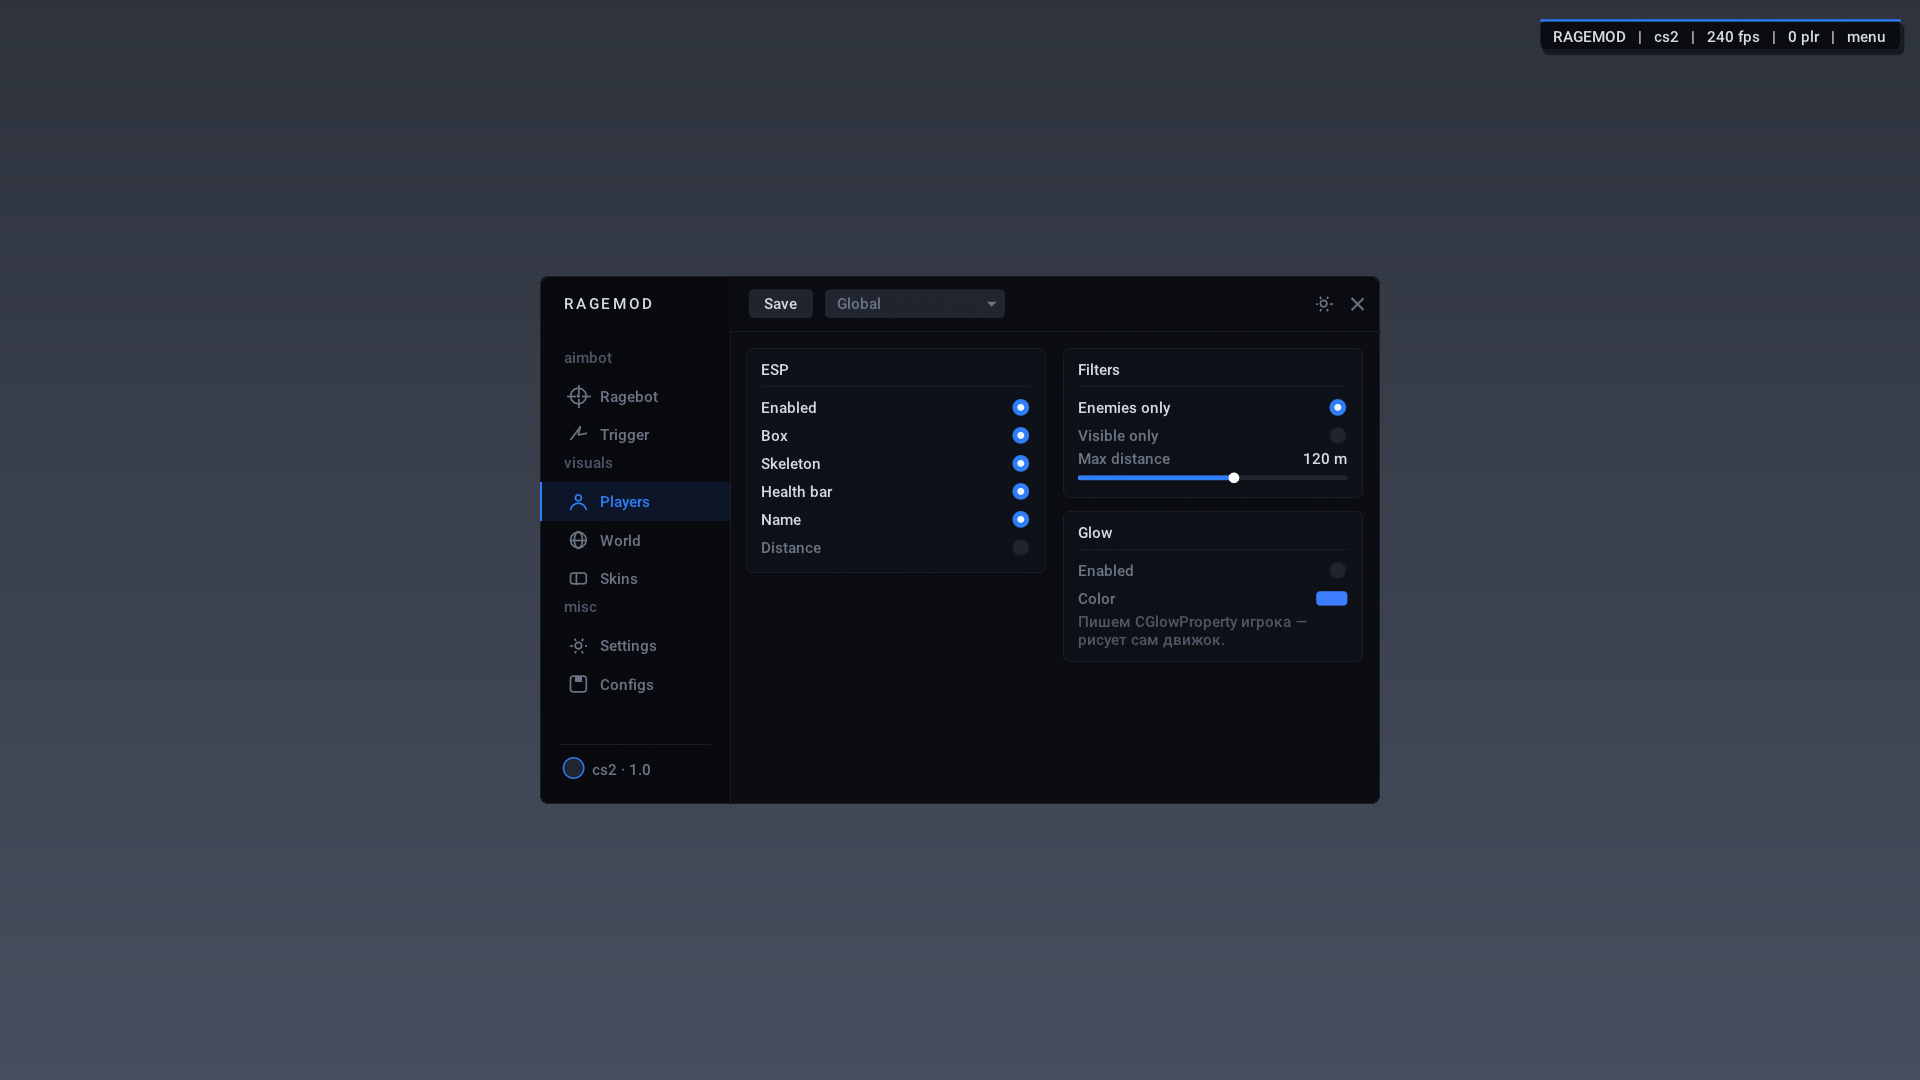
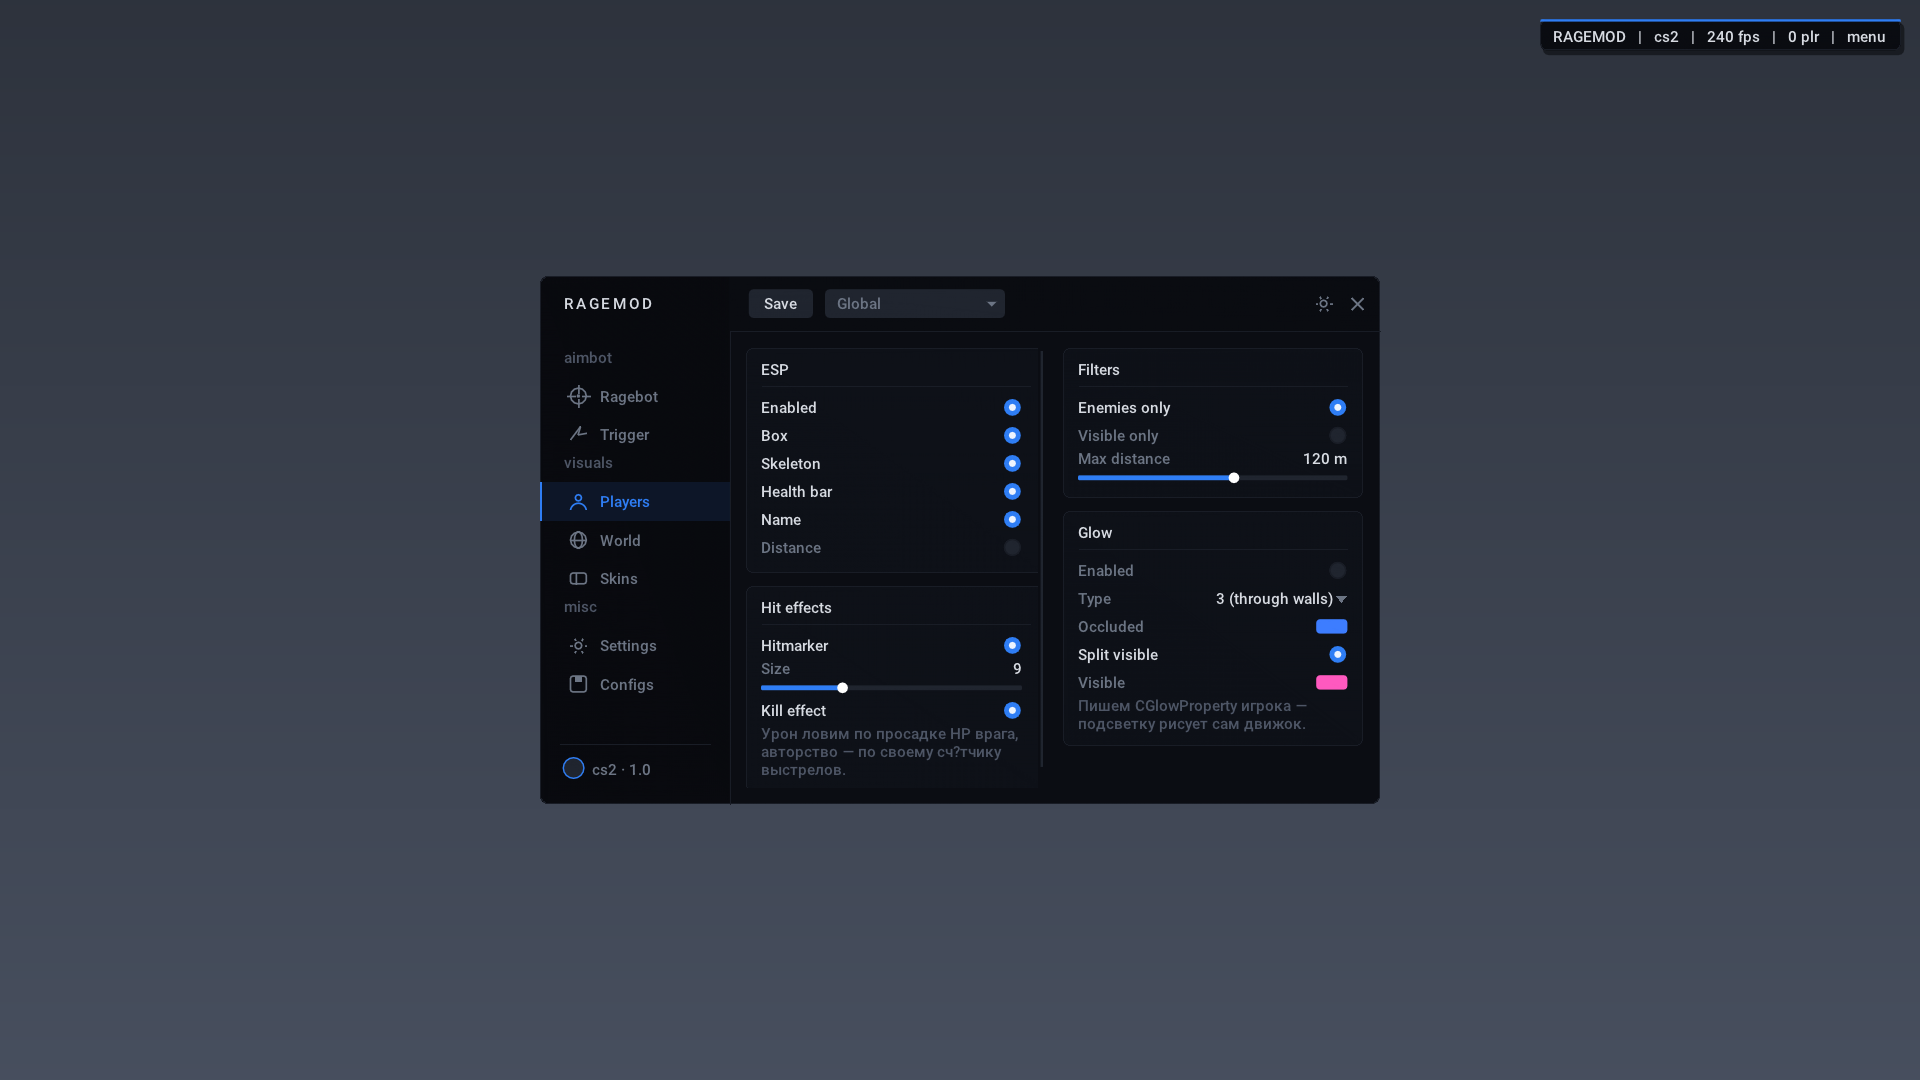
cs2: bhop, хитмаркер с килл-эффектом, glow с раздельными цветами
- bhop: читаем FL_ONGROUND из m_fFlags и дёргаем ту же структуру кнопки,
  что и триггер (buttons::jump): в воздухе отпускаем, на земле жмём.
  Бинд по умолчанию — пока зажат пробел
- хит-эффекты: трекаем HP врагов между кадрами, просадку в пределах секунды
  после своего выстрела считаем своим попаданием. На экране крестик с числом
  урона, на добивание — килл-эффект
- glow: выбор m_iGlowType и раздельные цвета для видимых и закрытых стеной
- в шрифт добавлена «ё» и тире, иначе подсказки рендерились с «?»

Собрано mingw, вёрстка проверена рендером кадра imgui в png.

Claude-Session: https://claude.ai/code/session_01QppJe4fATPxkCC1RMQeuY2

Changed region(s): [[0.375, 0.55, 0.5312, 0.7333], [0.5625, 0.55, 0.7188, 0.6722], [0.5, 0.3667, 0.5312, 0.4889]]

diff --git a/cs2/src/ui.cpp b/cs2/src/ui.cpp
@@ -372,6 +372,11 @@ void tab_trigger(int col) {
     slider_int_row("Delay (ms)", &g_cfg.trigger_delay_ms, 0, 250);
     hint("Цель под прицелом игра считает сама (m_iIDEntIndex), свой рейкаст не нужен.");
     group_end();
+
+    group_begin("Movement");
+    toggle_row("Bunny hop", &g_cfg.bhop, &g_cfg.bhop_bind);
+    hint("Прыжок отпускается в воздухе и жмётся в кадр касания земли.");
+    group_end();
 }
 
 void tab_players(int col) {
@@ -384,6 +389,12 @@ void tab_players(int col) {
         toggle_row("Name", &g_cfg.esp_name);
         toggle_row("Distance", &g_cfg.esp_dist);
         group_end();
+    group_begin("Hit effects");
+    toggle_row("Hitmarker", &g_cfg.hitmarker);
+    slider_row("Size", &g_cfg.hitmarker_size, 4.f, 20.f, "%.0f");
+    toggle_row("Kill effect", &g_cfg.killeffect);
+    hint("Урон ловим по просадке HP врага, авторство — по своему счётчику выстрелов.");
+    group_end();
         return;
     }
     group_begin("Filters");
@@ -394,9 +405,14 @@ void tab_players(int col) {
 
     group_begin("Glow");
     toggle_row("Enabled", &g_cfg.glow);
-    color_row("Color", g_cfg.glow_color);
-    hint("Пишем CGlowProperty игрока — рисует сам движок.");
+    static const char* gtypes[] = {"0", "1", "2", "3 (through walls)"};
+    combo_row("Type", &g_cfg.glow_type, gtypes, 4);
+    color_row("Occluded", g_cfg.glow_color);
+    toggle_row("Split visible", &g_cfg.glow_split_visible);
+    color_row("Visible", g_cfg.glow_color_visible);
+    hint("Пишем CGlowProperty игрока — подсветку рисует сам движок.");
     group_end();
+
 }
 
 void tab_world(int col) {
@@ -672,6 +688,66 @@ void draw_menu() {
     ImGui::PopStyleVar(2);
 }
 
+// хитмаркер и килл-эффект: крестик в центре, гаснет сам
+void draw_hit_effects() {
+    const game::Frame& f = game::frame();
+    if (f.last_hit.ts == 0) return;
+
+    static int64_t last_seen = 0;
+    static bool beeped = false;
+    if (f.last_hit.ts != last_seen) {
+        last_seen = f.last_hit.ts;
+        beeped = false;
+    }
+
+    // возраст события считаем по времени imgui, а не лезем в winapi из ui
+    static float age = 10.f;
+    static int64_t age_for = 0;
+    if (age_for != f.last_hit.ts) {
+        age_for = f.last_hit.ts;
+        age = 0.f;
+    } else {
+        age += ImGui::GetIO().DeltaTime;
+    }
+
+    const float life = f.last_hit.kill ? 1.1f : 0.35f;
+    if (age > life) return;
+    float k = 1.f - age / life;
+
+    ImGuiIO& io = ImGui::GetIO();
+    ImDrawList* dl = ImGui::GetForegroundDrawList();
+    ImVec2 c(io.DisplaySize.x * 0.5f, io.DisplaySize.y * 0.5f);
+
+    if (g_cfg.hitmarker) {
+        float r = g_cfg.hitmarker_size * S * (f.last_hit.kill ? 1.6f : 1.f);
+        float gap = r * 0.45f;
+        ImU32 col = f.last_hit.kill ? IM_COL32(255, 60, 60, (int)(255 * k))
+                                    : IM_COL32(255, 255, 255, (int)(235 * k));
+        float t = 1.8f * S;
+        dl->AddLine(ImVec2(c.x - r, c.y - r), ImVec2(c.x - gap, c.y - gap), col, t);
+        dl->AddLine(ImVec2(c.x + gap, c.y + gap), ImVec2(c.x + r, c.y + r), col, t);
+        dl->AddLine(ImVec2(c.x - r, c.y + r), ImVec2(c.x - gap, c.y + gap), col, t);
+        dl->AddLine(ImVec2(c.x + gap, c.y - gap), ImVec2(c.x + r, c.y - r), col, t);
+    }
+
+    if (g_cfg.killeffect && f.last_hit.kill) {
+        const char* txt = "KILL";
+        ImVec2 ts = ImGui::CalcTextSize(txt);
+        float y = c.y - 44.f * S - (1.f - k) * 18.f * S;
+        ImU32 col = IM_COL32(255, 70, 70, (int)(255 * k));
+        dl->AddText(ImVec2(c.x - ts.x * 0.5f + 1.f, y + 1.f), IM_COL32(0, 0, 0, (int)(200 * k)), txt);
+        dl->AddText(ImVec2(c.x - ts.x * 0.5f, y), col, txt);
+    } else if (g_cfg.hitmarker && f.last_hit.damage > 0) {
+        char buf[16];
+        snprintf(buf, sizeof(buf), "%d", f.last_hit.damage);
+        ImVec2 ts = ImGui::CalcTextSize(buf);
+        float y = c.y - 34.f * S - (1.f - k) * 10.f * S;
+        dl->AddText(ImVec2(c.x - ts.x * 0.5f + 1.f, y + 1.f), IM_COL32(0, 0, 0, (int)(190 * k)), buf);
+        dl->AddText(ImVec2(c.x - ts.x * 0.5f, y), IM_COL32(255, 210, 90, (int)(240 * k)), buf);
+    }
+    (void)beeped;
+}
+
 void draw_watermark() {
     if (!g_cfg.watermark) return;
     ImGuiIO& io = ImGui::GetIO();
@@ -810,7 +886,7 @@ void init_style(float display_h) {
     cfg.OversampleH = 2;
     cfg.OversampleV = 1;
     cfg.PixelSnapH = true;
-    static const ImWchar ranges[] = {0x0020, 0x00FF, 0x0400, 0x044F, 0x2010, 0x2027, 0};
+    static const ImWchar ranges[] = {0x0020, 0x00FF, 0x0400, 0x045F, 0x2010, 0x2027, 0};
     io.Fonts->AddFontFromMemoryTTF((void*)kFontRoboto, (int)kFontRoboto_size, 15.f * S, &cfg, ranges);
     io.Fonts->Build();
 }
@@ -818,6 +894,7 @@ void init_style(float display_h) {
 void frame(int w, int h, float fps) {
     g_fps = fps;
     draw_esp();
+    draw_hit_effects();
     draw_watermark();
     if (g_open) draw_menu();
 }

diff --git a/cs2/src/game.cpp b/cs2/src/game.cpp
@@ -20,6 +20,17 @@ struct Target {
 };
 Target g_target;
 
+// здоровье врагов с прошлого кадра: по его просадке ловим попадания
+struct HpTrack {
+    uintptr_t pawn = 0;
+    int hp = 0;
+};
+HpTrack g_hp[kMaxPlayers];
+int g_hp_n = 0;
+HitEvent g_last_hit;
+int g_last_shots = 0;
+int64_t g_last_shot_ts = 0;
+
 int64_t now_ms() {
     static LARGE_INTEGER freq{};
     if (!freq.QuadPart) QueryPerformanceFrequency(&freq);
@@ -56,16 +67,17 @@ bool spotted(sdk::Entity e) {
     return mem::read<bool>(st + off::EntitySpottedState_t::m_bSpotted);
 }
 
-void apply_glow(sdk::Entity e, bool enemy) {
+void apply_glow(sdk::Entity e, bool enemy, bool visible) {
     if (!g_cfg.glow) return;
     if (g_cfg.esp_team_check && !enemy) return;
-    uintptr_t glow = e.ptr + off::C_BaseModelEntity::m_Glow;
-    uint8_t r = (uint8_t)(g_cfg.glow_color[0] * 255.f);
-    uint8_t g = (uint8_t)(g_cfg.glow_color[1] * 255.f);
-    uint8_t b = (uint8_t)(g_cfg.glow_color[2] * 255.f);
+    const float* c = (g_cfg.glow_split_visible && visible) ? g_cfg.glow_color_visible : g_cfg.glow_color;
+    uint8_t r = (uint8_t)(c[0] * 255.f);
+    uint8_t g = (uint8_t)(c[1] * 255.f);
+    uint8_t b = (uint8_t)(c[2] * 255.f);
     uint32_t col = (uint32_t)r | ((uint32_t)g << 8) | ((uint32_t)b << 16) | (0xFFu << 24);
+    uintptr_t glow = e.ptr + off::C_BaseModelEntity::m_Glow;
     mem::write<uint32_t>(glow + off::CGlowProperty::m_glowColorOverride, col);
-    mem::write<int>(glow + off::CGlowProperty::m_iGlowType, 3);
+    mem::write<int>(glow + off::CGlowProperty::m_iGlowType, g_cfg.glow_type);
     mem::write<bool>(glow + off::CGlowProperty::m_bGlowing, true);
 }
 
@@ -122,6 +134,63 @@ void run_aim(sdk::Entity local, const Vec3& eye) {
     Vec3 step{cur.x + norm_angle(want.x - cur.x) / smooth, cur.y + norm_angle(want.y - cur.y) / smooth, 0.f};
     sdk::set_view_angles(step);
     if (g_cfg.aim_auto_fire && g_target.fov < g_cfg.aim_fov * 0.3f) sdk::press_attack(true);
+}
+
+void press_jump(bool down) {
+    mem::write<int>(sdk::g_client + off::buttons::jump + 0x8, down ? 0x5 : 0x4);
+}
+
+// Бхоп: прыжок отпускаем в воздухе и жмём ровно в кадр касания земли.
+// Ничего нового в процесс не тащим — пишем ту же структуру кнопки, что и триггер.
+void run_bhop(sdk::Entity local) {
+    static bool held = false;
+    bool on = config::bind_active(g_cfg.bhop_bind, g_cfg.bhop);
+    if (!on) {
+        if (held) {
+            press_jump(false);
+            held = false;
+        }
+        return;
+    }
+    uint32_t flags = mem::read<uint32_t>(local.ptr + off::C_BaseEntity::m_fFlags);
+    bool on_ground = (flags & (1u << 0)) != 0;
+    press_jump(on_ground);
+    held = true;
+}
+
+// Попадания считаем по просадке HP врагов, авторство — по своему счётчику выстрелов.
+void track_hits(sdk::Entity local, const Frame& f) {
+    int shots = mem::read<int>(local.ptr + off::C_CSPlayerPawn::m_iShotsFired);
+    int64_t now = now_ms();
+    if (shots != g_last_shots) {
+        g_last_shots = shots;
+        g_last_shot_ts = now;
+    }
+
+    HpTrack next[kMaxPlayers];
+    int next_n = 0;
+    for (int i = 0; i < f.count && next_n < kMaxPlayers; i++) {
+        const PlayerView& p = f.players[i];
+        if (!p.enemy) continue;
+        int prev = -1;
+        for (int k = 0; k < g_hp_n; k++) {
+            if (g_hp[k].pawn == p.pawn) {
+                prev = g_hp[k].hp;
+                break;
+            }
+        }
+        // стреляли меньше секунды назад — считаем урон своим
+        if (prev > 0 && p.hp < prev && now - g_last_shot_ts < 1000) {
+            g_last_hit.ts = now;
+            g_last_hit.damage = prev - p.hp;
+            g_last_hit.kill = p.hp <= 0;
+        }
+        next[next_n].pawn = p.pawn;
+        next[next_n].hp = p.hp;
+        next_n++;
+    }
+    std::memcpy(g_hp, next, sizeof(HpTrack) * (size_t)next_n);
+    g_hp_n = next_n;
 }
 
 void run_trigger(sdk::Entity local) {
@@ -212,7 +281,7 @@ void tick(int sw, int sh) {
         Vec3 origin = pawn.origin();
         p.dist = (origin - eye).len() * 0.0254f;   // юниты -> метры
 
-        apply_glow(pawn, p.enemy);
+        apply_glow(pawn, p.enemy, p.visible);
 
         // кости и бокс
         float minx = 1e9f, maxx = -1e9f, miny = 1e9f, maxy = -1e9f;
@@ -276,7 +345,10 @@ void tick(int sw, int sh) {
 
     run_aim(local, eye);
     run_trigger(local);
+    run_bhop(local);
     apply_skin(local);
+    track_hits(local, f);
+    f.last_hit = g_last_hit;
 
     g_frame = f;
 }

diff --git a/cs2/src/config.h b/cs2/src/config.h
@@ -28,6 +28,16 @@ struct Config {
     bool trigger_team_check = true;
     bool trigger_scoped_only = false;
 
+    // MOVEMENT
+    bool bhop = false;
+    Bind bhop_bind{0x20, 0};         // по умолчанию пока зажат пробел
+
+    // HIT / KILL эффекты
+    bool hitmarker = true;
+    bool hitmarker_sound = false;
+    float hitmarker_size = 9.f;
+    bool killeffect = true;
+
     // VISUALS / esp
     bool esp = true;
     bool esp_box = true;
@@ -40,7 +50,10 @@ struct Config {
     bool esp_visible_only = false;
     float esp_max_dist = 120.f;      // метры
     bool glow = false;
+    int glow_type = 3;               // CGlowProperty::m_iGlowType
     float glow_color[3] = {0.24f, 0.49f, 1.f};
+    float glow_color_visible[3] = {1.f, 0.35f, 0.75f};
+    bool glow_split_visible = true;  // видимым один цвет, за стеной другой
 
     // WORLD
     bool night = false;              // затемнение карты

diff --git a/cs2/src/config.cpp b/cs2/src/config.cpp
@@ -28,6 +28,9 @@ const Field kFields[] = {
     F_B(aim), F_K(aim_bind), F_F(aim_fov), F_I(aim_bone), F_B(aim_visible_only), F_B(aim_silent),
     F_F(aim_smooth), F_B(aim_auto_fire), F_B(aim_predict), F_F(aim_predict_scale),
     F_B(trigger), F_K(trigger_bind), F_I(trigger_delay_ms), F_B(trigger_team_check), F_B(trigger_scoped_only),
+    F_B(bhop), F_K(bhop_bind),
+    F_B(hitmarker), F_B(hitmarker_sound), F_F(hitmarker_size), F_B(killeffect),
+    F_I(glow_type), F_B(glow_split_visible),
     F_B(esp), F_B(esp_box), F_B(esp_skeleton), F_B(esp_health), F_B(esp_name), F_B(esp_dist),
     F_B(esp_weapon), F_B(esp_team_check), F_B(esp_visible_only), F_F(esp_max_dist), F_B(glow),
     F_B(night), F_F(night_alpha), F_B(bright_players),

diff --git a/cs2/src/game.h b/cs2/src/game.h
@@ -34,6 +34,13 @@ struct BoneLink {
 extern const BoneLink kBoneLinks[];
 extern const int kBoneLinkCount;
 
+// событие попадания/убийства для эффектов на экране
+struct HitEvent {
+    int64_t ts = 0;      // когда случилось
+    int damage = 0;
+    bool kill = false;
+};
+
 struct Frame {
     int count = 0;
     PlayerView players[kMaxPlayers];
@@ -42,6 +49,7 @@ struct Frame {
     Vec2 target_screen;
     int screen_w = 0, screen_h = 0;
     float fps = 0.f;
+    HitEvent last_hit;
 };
 
 void tick(int screen_w, int screen_h);   // игровая логика, зовётся из Present

diff --git a/standoff2/src/ui.cpp b/standoff2/src/ui.cpp
@@ -825,7 +825,7 @@ void rebuild_font() {
     cfg.OversampleH = 2;
     cfg.OversampleV = 1;
     cfg.PixelSnapH = true;
-    static const ImWchar ranges[] = {0x0020, 0x00FF, 0x0400, 0x044F, 0x2010, 0x2027, 0};
+    static const ImWchar ranges[] = {0x0020, 0x00FF, 0x0400, 0x045F, 0x2010, 0x2027, 0};
     io.Fonts->AddFontFromMemoryTTF((void*)kFontRoboto, (int)kFontRoboto_size, 15.f * S, &cfg, ranges);
     io.Fonts->Build();
     ImGui_ImplOpenGL3_DestroyFontsTexture();
